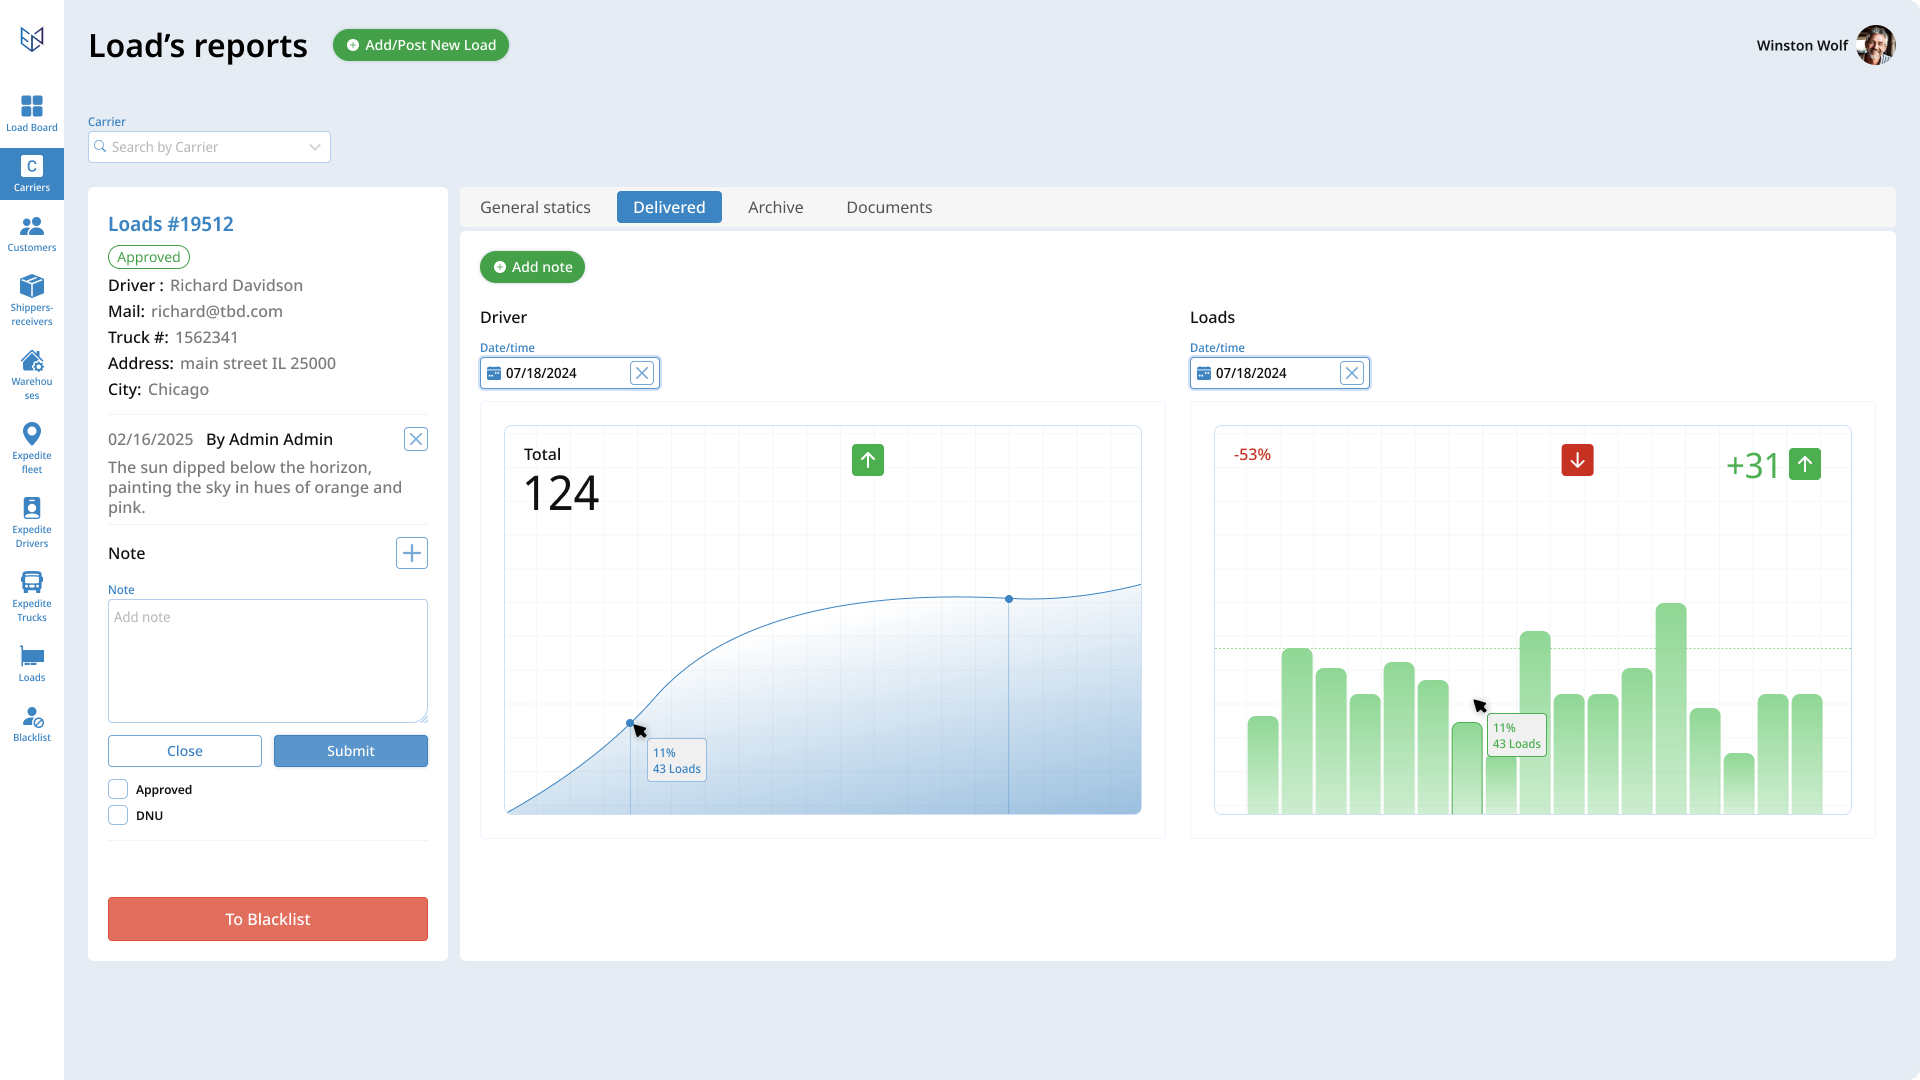
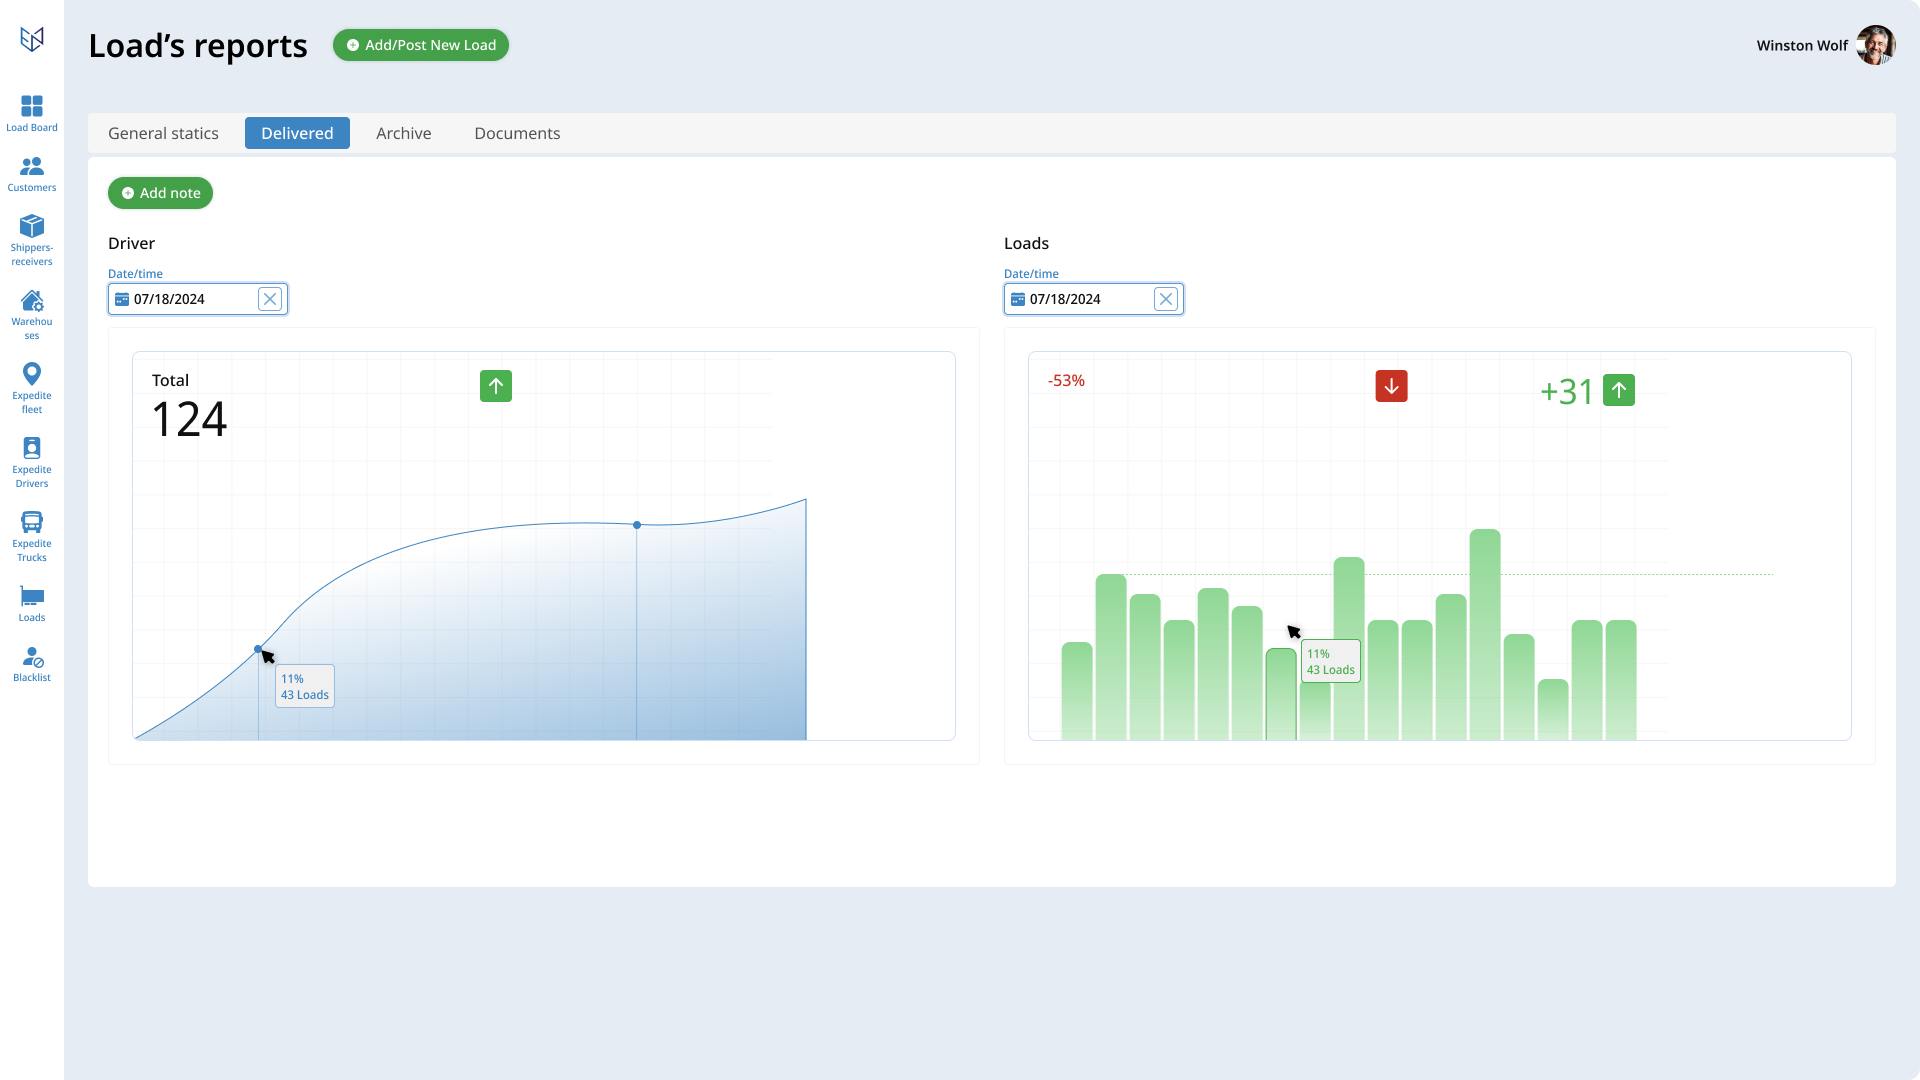
Update

diff --git a/style.css b/style.css
@@ -51,37 +51,58 @@ a { text-decoration: none; color: inherit; }
 .bg-glow-left { top: -20%; left: -10%; background: radial-gradient(circle, var(--glow-color) 0%, rgba(255,255,255,0) 60%); }
 .bg-glow-right { top: -10%; right: -20%; background: radial-gradient(circle, rgba(196, 181, 253, 0.3) 0%, rgba(255,255,255,0) 60%); }
 
-/* --- 1. DARK HERO CONTAINER --- */
-.sticky-hero-container { position: sticky; top: 0; height: 100vh; z-index: 1; display: flex; flex-direction: column; overflow: hidden; background: #020617; }
-.hero-mountains { position: absolute; top: 0; left: 0; width: 100%; height: 100%; z-index: 0; pointer-events: none; }
-.hero-overlay { position: absolute; top: 0; left: 0; width: 100%; height: 100%; z-index: 1; pointer-events: none; background: radial-gradient(circle at 50% 60%, rgba(0, 85, 255, 0.1) 0%, rgba(2, 6, 23, 0.8) 70%, #020617 100%); }
+/* --- 1. SMART NAVBAR --- */
+.navbar { 
+    position: fixed; 
+    top: 0; 
+    left: 0; 
+    width: 100%; 
+    z-index: 1000; 
+    display: flex; 
+    justify-content: space-between; 
+    align-items: center; 
+    padding: 20px 48px; 
+    background: rgba(2, 6, 23, 0.85); /* Dark premium glassmorphism */
+    backdrop-filter: blur(16px); 
+    -webkit-backdrop-filter: blur(16px);
+    border-bottom: 1px solid rgba(255, 255, 255, 0.05);
+    transition: transform 0.4s cubic-bezier(0.4, 0, 0.2, 1), background 0.3s ease;
+}
+.navbar--hidden {
+    transform: translateY(-100%);
+}
 
-/* Navigation */
-.navbar { display: flex; justify-content: space-between; align-items: center; padding: 24px 48px; width: 100%; max-width: 1400px; margin: 0 auto; position: relative; z-index: 100; }
+.nav-left { flex: 1; display: flex; align-items: center; }
+.nav-center { display: flex; gap: 32px; align-items: center; justify-content: center; flex: 2; }
+.nav-center a { font-size: 0.95rem; font-weight: 500; color: rgba(255,255,255,0.8); transition: color 0.3s; }
+.nav-center a:hover { color: #fff; }
+.nav-right { flex: 1; display: flex; align-items: center; justify-content: flex-end; gap: 16px; }
+
 .logo-text { font-size: 1.5rem; font-weight: 800; letter-spacing: -0.05em; color: #fff; transition: opacity 0.3s; }
 .logo-text:hover { opacity: 0.8; }
-.nav-right { display: flex; align-items: center; gap: 16px; }
-.dark-mode-btn { color: #fff !important; }
-.dark-mode-btn:hover { background: rgba(255,255,255,0.1) !important; }
-.btn-secondary { font-size: 0.95rem; font-weight: 500; color: var(--text-main); padding: 12px 24px; border-radius: 100px; transition: background 0.2s; }
 .btn-primary { display: inline-block; position: relative; overflow: hidden; background-color: var(--accent-blue); color: var(--btn-text); padding: 14px 28px; border-radius: 100px; font-weight: 500; font-size: 0.95rem; transition: box-shadow 0.3s ease; box-shadow: 0 4px 14px rgba(0, 85, 255, 0.3); }
 .btn-primary::after { content: ''; position: absolute; top: 0; left: -100%; width: 50%; height: 100%; background: linear-gradient(90deg, transparent, rgba(255,255,255,0.3), transparent); transform: skewX(-20deg); transition: left 0.6s ease-in-out; }
 .btn-primary:hover { box-shadow: 0 12px 28px rgba(0, 85, 255, 0.5); }
 .btn-primary:hover::after { left: 150%; }
 
+/* --- 2. DARK HERO CONTAINER --- */
+.sticky-hero-container { position: relative; height: 100vh; min-height: 800px; z-index: 1; display: flex; flex-direction: column; overflow: hidden; background: #020617; }
+.hero-mountains { position: absolute; top: 0; left: 0; width: 100%; height: 100%; z-index: 0; pointer-events: none; }
+.hero-overlay { position: absolute; top: 0; left: 0; width: 100%; height: 100%; z-index: 1; pointer-events: none; background: radial-gradient(circle at 50% 60%, rgba(0, 85, 255, 0.1) 0%, rgba(2, 6, 23, 0.8) 70%, #020617 100%); }
+
 /* Hero Section Inner */
-.hero { flex-grow: 1; display: flex; flex-direction: column; align-items: center; justify-content: space-between; padding-top: 4vh; position: relative; z-index: 10;}
+.hero { flex-grow: 1; display: flex; flex-direction: column; align-items: center; justify-content: space-between; padding-top: 120px; position: relative; z-index: 10;}
 .hero-content { text-align: center; max-width: 1000px; padding: 0 24px; }
-.hero h1 { font-size: clamp(3rem, 6vw, 4.5rem); font-weight: 700; letter-spacing: -0.04em; margin-bottom: 24px; line-height: 1.1; color: #fff; }
-.hero h2 { font-size: clamp(1rem, 1.8vw, 1.15rem); font-weight: 400; color: rgba(255,255,255,0.7); max-width: 700px; margin: 0 auto 40px; line-height: 1.6; }
+.hero h1 { font-size: clamp(2.5rem, 5vw, 4rem); font-weight: 700; letter-spacing: -0.04em; margin-bottom: 24px; line-height: 1.1; color: #fff; }
+.hero h2 { font-size: clamp(1rem, 1.8vw, 1.15rem); font-weight: 400; color: rgba(255,255,255,0.7); max-width: 800px; margin: 0 auto 40px; line-height: 1.6; }
 .hero .btn-primary { padding: 16px 32px; font-size: 1.05rem; }
 
-.hero-image-wrapper { margin-top: 40px; width: 100%; max-width: 1100px; position: relative; z-index: 1; }
+.hero-image-wrapper { margin-top: 40px; width: 100%; max-width: 1100px; position: relative; z-index: 1; flex: 1; display: flex; justify-content: center; align-items: flex-start; }
 .hero-image-glow { position: absolute; top: 40%; left: 50%; width: 140%; height: 140%; background: radial-gradient(ellipse at center, rgba(0, 85, 255, 0.4) 0%, transparent 60%); filter: blur(80px); z-index: -2; pointer-events: none; transform: translate(-50%, -50%); }
 .hero-parallax-layer { position: relative; z-index: 2;}
-.hero-image { width: 100%; height: auto; border-radius: 16px; box-shadow: 0 20px 80px rgba(0,0,0,0.5), 0 0 0 1px rgba(255,255,255,0.1); }
+.hero-image { width: 100%; height: auto; border-radius: 16px 16px 0 0; box-shadow: 0 20px 80px rgba(0,0,0,0.5), 0 0 0 1px rgba(255,255,255,0.1); }
 
-/* --- 2. Main Content --- */
+/* --- 3. Main Content --- */
 .main-content-wrapper { position: relative; z-index: 2; background-color: var(--bg-color); box-shadow: 0 -20px 50px rgba(0, 0, 0, 0.2); border-top: 1px solid rgba(255,255,255,0.1); padding-top: 40px; }
 
 /* Platform Intro & Tags */
@@ -192,7 +213,7 @@ a { text-decoration: none; color: inherit; }
 .stat-glow { position: absolute; top: 50%; left: 50%; width: 120%; height: 120%; background: radial-gradient(circle, rgba(0, 85, 255, 0.15) 0%, transparent 60%); filter: blur(60px); z-index: 1; transform: translate(-50%, -50%); pointer-events: none; }
 .stat-main-img { width: 100%; height: auto; display: block; position: relative; z-index: 2; }
 
-/* --- 3. Sticky Pricing Container --- */
+/* --- 4. Sticky Pricing Container --- */
 .sticky-pricing-container { position: sticky; top: 0; min-height: 100vh; z-index: 1; display: flex; align-items: center; justify-content: center; background: linear-gradient(135deg, #0033A0 0%, #0055FF 100%); color: #fff; overflow-y: auto; padding: 100px 0; overflow: hidden; }
 
 .pricing-grid-bg {
@@ -233,7 +254,7 @@ a { text-decoration: none; color: inherit; }
 .btn-primary-white { display: block; text-align: center; width: 100%; padding: 14px; border-radius: 100px; background: #fff; color: var(--btn-bg); font-weight: 600; font-size: 0.95rem; transition: all 0.3s; box-shadow: 0 4px 14px rgba(0,0,0,0.1); }
 .btn-primary-white:hover { box-shadow: 0 12px 28px rgba(255,255,255,0.2); }
 
-/* --- 4. FAQ & CTA Wrapper --- */
+/* --- 5. FAQ & CTA Wrapper --- */
 .faq-cta-wrapper { position: relative; z-index: 2; background-color: var(--bg-color); box-shadow: 0 -20px 50px rgba(0, 0, 0, 0.15); border-top: 1px solid rgba(0,0,0,0.05); }
 .faq { padding: 100px 24px 60px; max-width: 800px; margin: 0 auto; }
 .faq-header { text-align: center; margin-bottom: 56px; }
@@ -253,7 +274,7 @@ a { text-decoration: none; color: inherit; }
 .cta-form input::placeholder { color: #9CA3AF; }
 .cta-form button { flex-shrink: 0; padding: 16px 36px; font-size: 1rem; }
 
-/* --- 5. Premium Footer --- */
+/* --- 6. Premium Footer --- */
 .footer-wrapper { position: relative; z-index: 3; background: var(--btn-bg); box-shadow: 0 -10px 40px rgba(0,0,0,0.2); }
 .footer { color: #fff; padding: 80px 24px 40px; }
 .footer-container { max-width: 1200px; margin: 0 auto; display: grid; grid-template-columns: 1.5fr 2fr; gap: 64px; margin-bottom: 80px; }
@@ -284,8 +305,12 @@ a { text-decoration: none; color: inherit; }
 }
 
 @media (max-width: 768px) {
-    .sticky-hero-container { position: relative; height: auto; padding-top: 20px; padding-bottom: 40px;}
-    .navbar { padding: 20px 24px; flex-direction: column; gap: 20px; }
+    .navbar { padding: 16px 24px; flex-direction: column; gap: 16px; background: rgba(2, 6, 23, 0.95); }
+    .nav-center { display: none; }
+    .nav-right { justify-content: center; }
+    .hero { padding-top: 140px; }
+    .sticky-hero-container { position: relative; height: auto; min-height: auto; padding-bottom: 40px;}
+    
     .hero-image-wrapper { margin-top: 40px; margin-bottom: 0px; }
     .bento-grid { grid-template-columns: 1fr; }
     .card-1, .card-2, .card-3, .card-4 { grid-column: 1 / -1; grid-row: auto; min-height: 380px; }

diff --git a/index.html b/index.html
@@ -2,7 +2,7 @@
 <html lang="en">
 <head>
     <meta charset="UTF-8">
-    <meta name="viewport" content="width=device-width, initial-width=1.0">
+    <meta name="viewport" content="width=device-width, initial-scale=1.0">
     <title>Brokerage CRM — Logistics Platform</title>
     <link rel="preconnect" href="https://fonts.googleapis.com">
     <link rel="preconnect" href="https://fonts.gstatic.com" crossorigin>
@@ -10,6 +10,24 @@
     <link rel="stylesheet" href="style.css">
 </head>
 <body class="premium-grid-bg">
+
+    <nav class="navbar" id="smart-navbar">
+        <div class="nav-left">
+            <a href="#" class="logo-text">Logistics Operations Platform</a>
+        </div>
+        <div class="nav-center">
+            <a href="#features">Features</a>
+            <a href="#operations">Operations</a>
+            <a href="#network">Network</a>
+            <a href="#admin">Admin</a>
+            <a href="#statistics">Statistics</a>
+            <a href="#faq">FAQ</a>
+        </div>
+        <div class="nav-right">
+            <a href="#pricing" class="btn-primary">View Pricing</a>
+        </div>
+    </nav>
+
     <div class="bg-glow bg-glow-left pulse-glow"></div>
     <div class="bg-glow bg-glow-right pulse-glow"></div>
 
@@ -18,20 +36,10 @@
         <canvas id="mountain-canvas" class="hero-mountains"></canvas>
         <div class="hero-overlay"></div>
 
-        <nav class="navbar">
-            <div class="nav-left">
-                <a href="#" class="logo-text">Brokerage CRM</a>
-            </div>
-            <div class="nav-right">
-                <a href="#faq" class="btn-secondary dark-mode-btn">FAQ</a>
-                <a href="#pricing" class="btn-primary">View Pricing</a>
-            </div>
-        </nav>
-
         <header class="hero">
             <div class="hero-content">
-                <h1 class="animate-up">CRM for Brokers</h1>
-                <h2 class="animate-up delay-1">Streamline your freight operations, manage carriers, and track loads instantly. The all-in-one CRM built for modern logistics growth.</h2>
+                <h1 class="animate-up">We deliver custom CRM solutions for logistics businesses</h1>
+                <h2 class="animate-up delay-1">Build scalable CRM systems &bull; Automate routine operations &bull; Optimize logistics workflows &bull; Connect teams and processes &bull; Track performance and results</h2>
                 
                 <div class="animate-up delay-2">
                     <a href="#features" class="btn-primary">Explore Platform</a>

diff --git a/script.js b/script.js
@@ -1,6 +1,35 @@
 document.addEventListener('DOMContentLoaded', () => {
-    
-    // 1. Digital 3D Mountains & Road Generator (Synthwave style)
+
+    // 1. Smart Navbar Logic
+    const navbar = document.getElementById('smart-navbar');
+    let lastScrollY = window.scrollY;
+    let isScrolling;
+
+    window.addEventListener('scroll', () => {
+        // Hiding/Showing on scroll
+        if (window.scrollY > 80) {
+            if (window.scrollY > lastScrollY) {
+                // Scroll Down
+                navbar.classList.add('navbar--hidden');
+            } else {
+                // Scroll Up
+                navbar.classList.remove('navbar--hidden');
+            }
+        } else {
+            // Top of the page
+            navbar.classList.remove('navbar--hidden');
+        }
+        
+        lastScrollY = window.scrollY;
+
+        // Display navbar when scrolling stops
+        window.clearTimeout(isScrolling);
+        isScrolling = setTimeout(() => {
+            navbar.classList.remove('navbar--hidden');
+        }, 800); 
+    });
+
+    // 2. Digital 3D Mountains & Road Generator (Synthwave style)
     const canvas = document.getElementById('mountain-canvas');
     if (canvas) {
         const ctx = canvas.getContext('2d');
@@ -8,7 +37,7 @@ document.addEventListener('DOMContentLoaded', () => {
 
         function resize() {
             width = canvas.width = window.innerWidth;
-            height = canvas.height = window.innerHeight;
+            height = canvas.height = document.getElementById('hero-container').offsetHeight;
         }
         window.addEventListener('resize', resize);
         resize();
@@ -101,7 +130,7 @@ document.addEventListener('DOMContentLoaded', () => {
         animateMountains();
     }
 
-    // 2. Global Accordion Logic 
+    // 3. Global Accordion Logic 
     const accordionWrappers = document.querySelectorAll('.accordion-wrapper');
     
     accordionWrappers.forEach(wrapper => {
@@ -131,7 +160,7 @@ document.addEventListener('DOMContentLoaded', () => {
         });
     });
 
-    // 3. Pricing Toggle Logic
+    // 4. Pricing Toggle Logic
     const pricingToggle = document.getElementById('pricing-toggle');
     if (pricingToggle) {
         const spans = pricingToggle.querySelectorAll('span');
